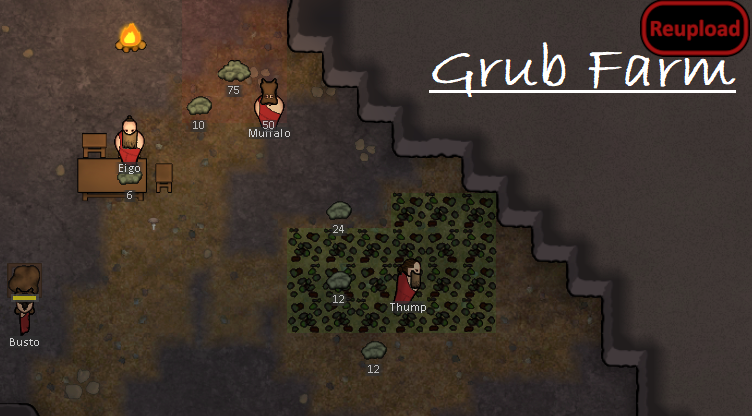
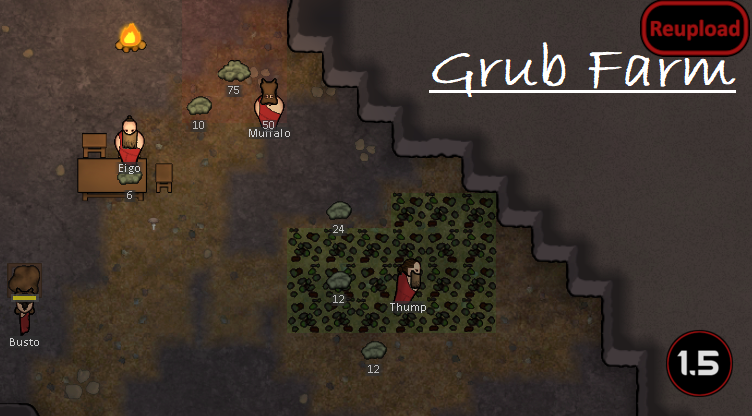
Mod updated for 1.5 and passed autotests

Changed region(s): [[0.887, 0.7812, 0.9787, 0.9688]]

diff --git a/README.md b/README.md
@@ -24,11 +24,13 @@ Grow Insect Meat for your cave colony.
 
 -  See if the the error persists if you just have this mod and its requirements active.
 -  If not, try adding your other mods until it happens again.
--  Post your error-log using https://steamcommunity.com/workshop/filedetails/?id=818773962]HugsLib and command Ctrl+F12
+-  Post your error-log using https://steamcommunity.com/workshop/filedetails/?id=818773962]HugsLib or the standalone https://steamcommunity.com/sharedfiles/filedetails/?id=2873415404]Uploader and command Ctrl+F12
 -  For best support, please use the Discord-channel for error-reporting.
 -  Do not report errors by making a discussion-thread, I get no notification of that.
 -  If you have the solution for a problem, please post it to the GitHub repository.
+-  Use https://github.com/RimSort/RimSort/releases/latest]RimSort to sort your mods
 
 
 
+https://steamcommunity.com/sharedfiles/filedetails/changelog/2018980438]![Image](https://img.shields.io/github/v/release/emipa606/GrubFarm?label=latest%20version&style=plastic&color=9f1111&labelColor=black)
 
